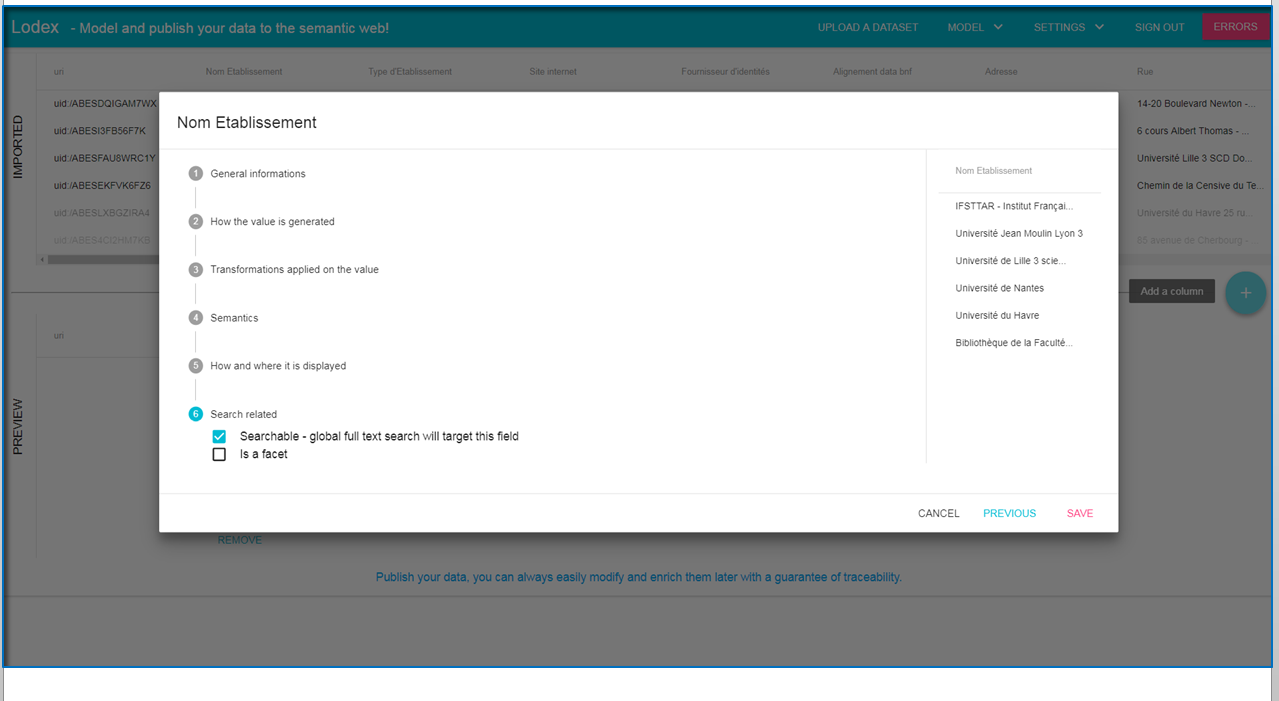
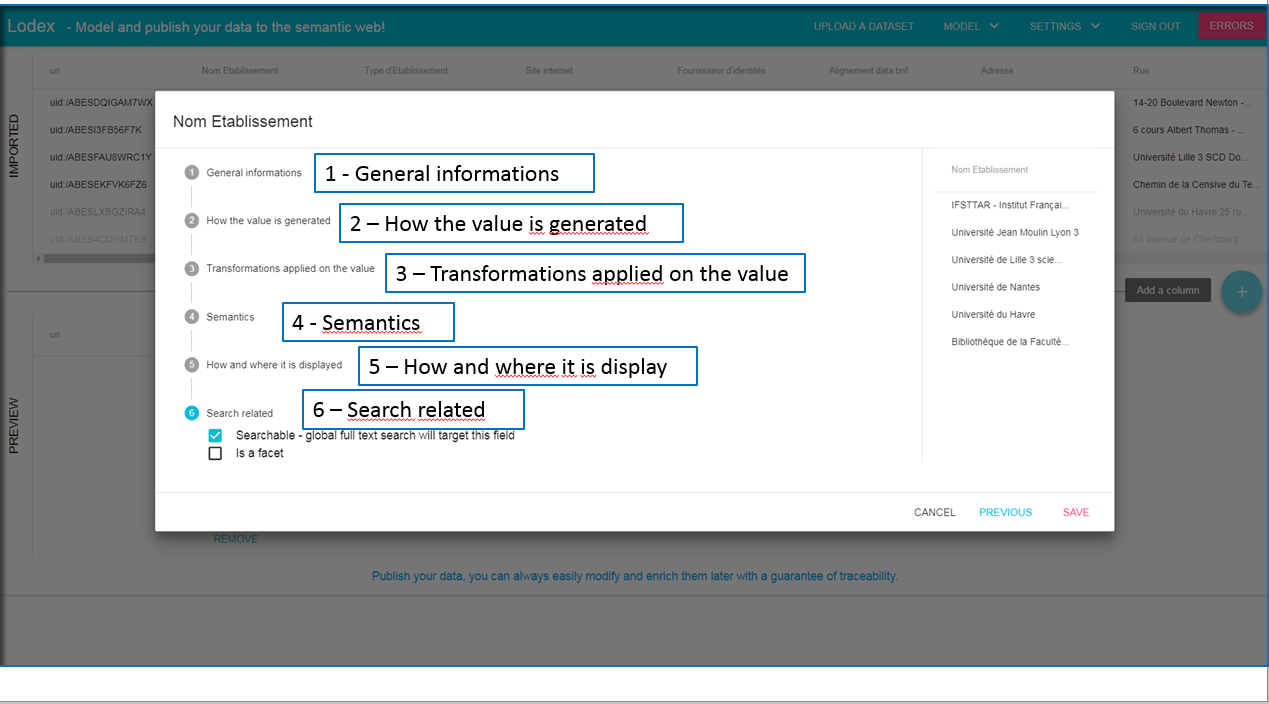
Updates assets/parametrage2.png
Auto commit by GitBook Editor

diff --git a/Processus publication/Paramétage - Stylage des colonnes/README.md b/Processus publication/Paramétage - Stylage des colonnes/README.md
@@ -4,3 +4,9 @@ Pour ce faire, vous devez activez le bouton "**+**" précédemment décrit. Le s
 
 Pour chaque intitulé de colonne, le système vous propose cette fenêtre, correspondant aux **six opérations** possibles et à la visualisation du résultat du traitement effectué sur cette colonne  :![](/assets/parametrage2.png)NB : dans l'exemple présenté, nous avons sélection la colonne "Nom de l'établissement".
 
+## Descriptif des 6 opérations : 
+
+### 1 - General informations
+
+
+
